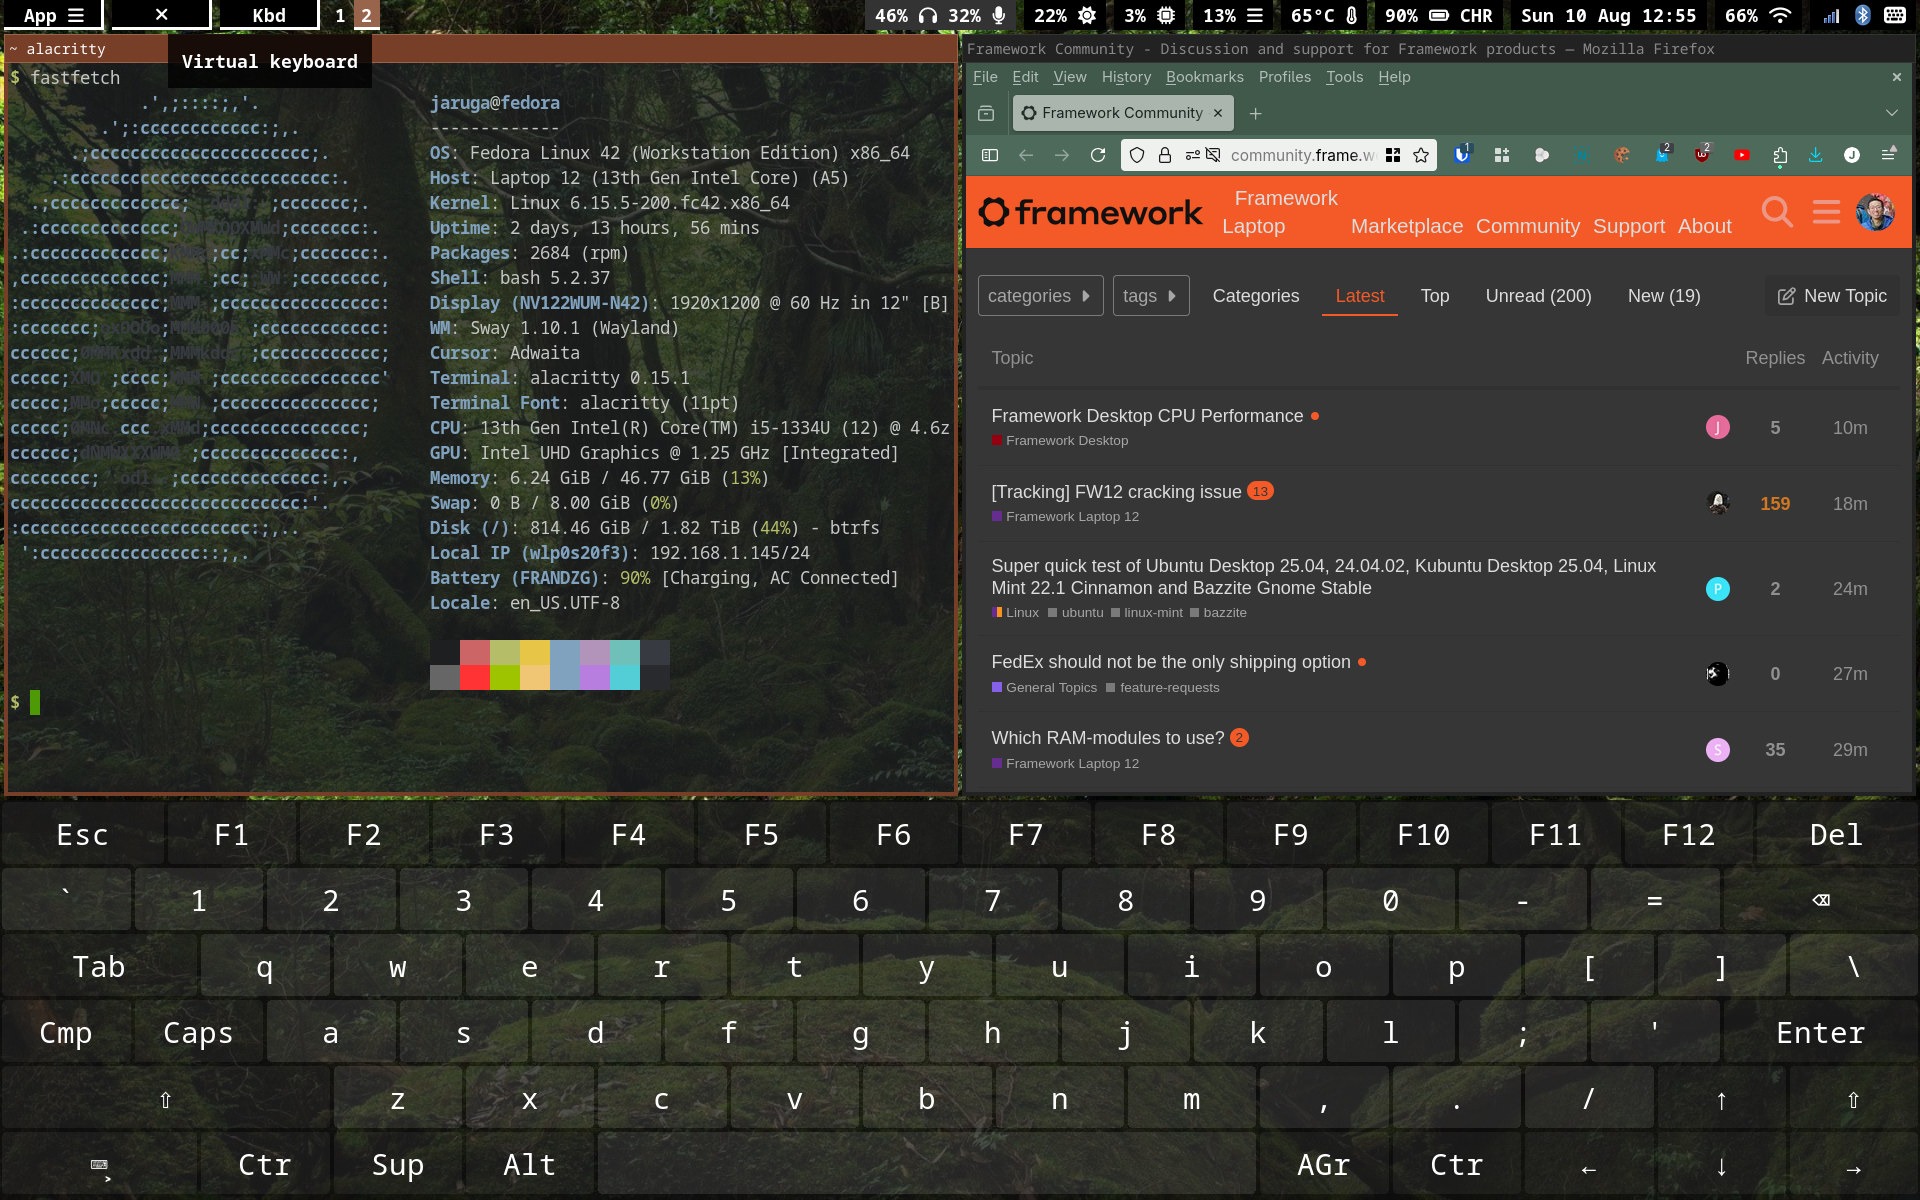
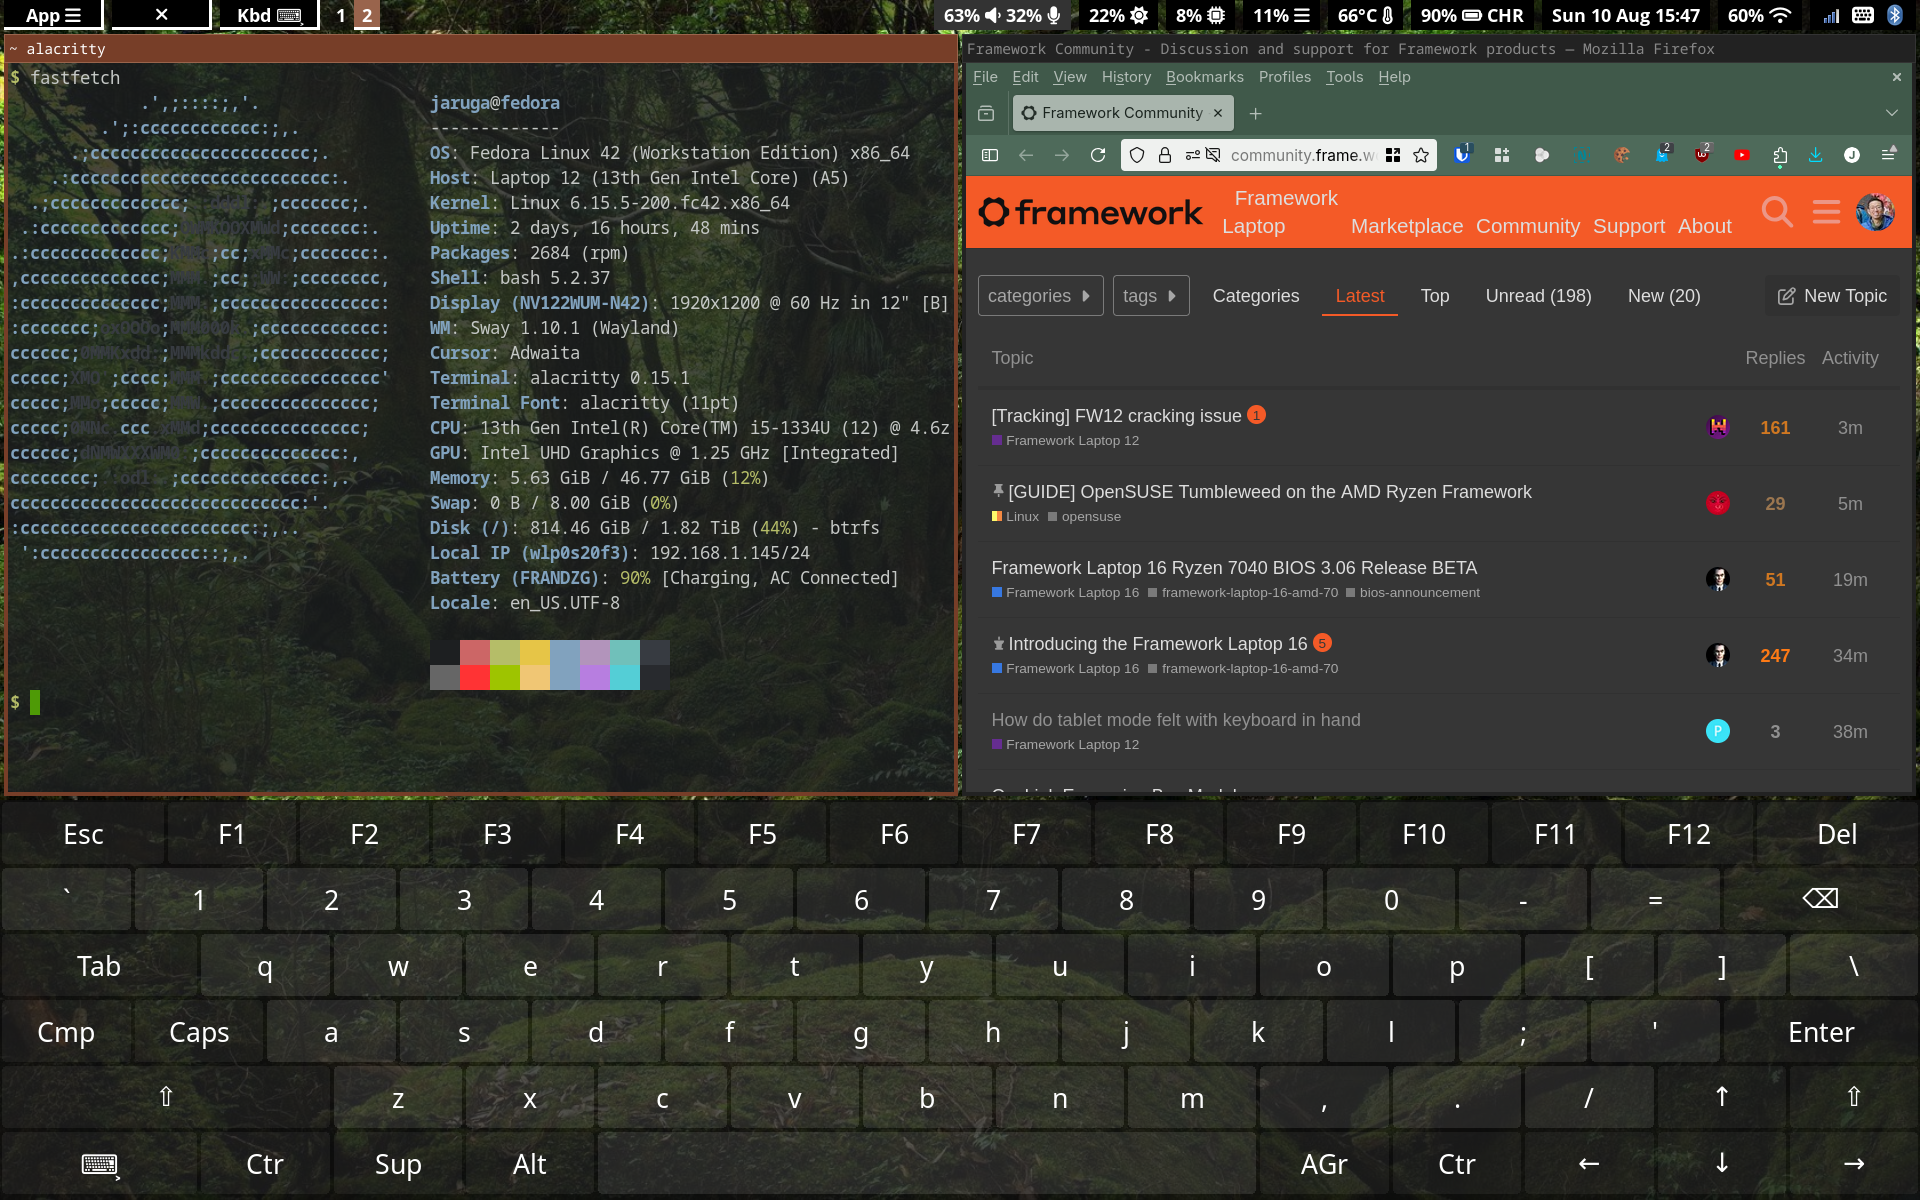
Updated waybar and wvkbd.

diff --git a/home/.config/waybar/style.css b/home/.config/waybar/style.css
@@ -3,7 +3,7 @@
 * {
     border: none;
     border-radius: 0;
-    font-family: Monospace;
+    font-family: "Open Sans";
     font-size: 18px;
     font-weight: bold;
     min-height: 0;
